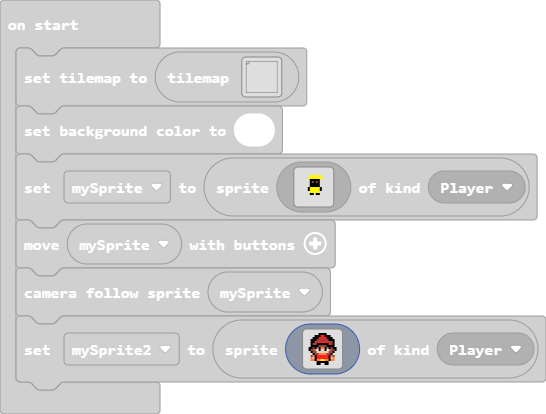
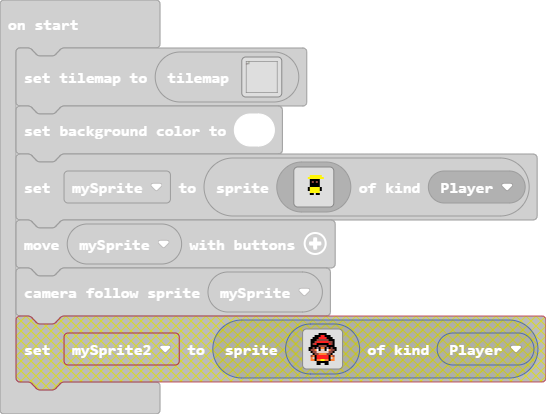
Update main.blocks, main.ts

Changed region(s): [[0.0, 0.7536, 1.0, 0.9565]]

diff --git a/main.ts b/main.ts
@@ -20,21 +20,3 @@ let mySprite = sprites.create(img`
     `, SpriteKind.Player)
 controller.moveSprite(mySprite)
 scene.cameraFollowSprite(mySprite)
-let mySprite2 = sprites.create(img`
-    . . . . . . f f f f . . . . . . 
-    . . . . f f f 2 2 f f f . . . . 
-    . . . f f f 2 2 2 2 f f f . . . 
-    . . f f f e e e e e e f f f . . 
-    . . f f e 2 2 2 2 2 2 e e f . . 
-    . . f e 2 f f f f f f 2 e f . . 
-    . . f f f f e e e e f f f f . . 
-    . f f e f b f 4 4 f b f e f f . 
-    . f e e 4 1 f d d f 1 4 e e f . 
-    . . f e e d d d d d d e e f . . 
-    . . . f e e 4 4 4 4 e e f . . . 
-    . . e 4 f 2 2 2 2 2 2 f 4 e . . 
-    . . 4 d f 2 2 2 2 2 2 f d 4 . . 
-    . . 4 4 f 4 4 5 5 4 4 f 4 4 . . 
-    . . . . . f f f f f f . . . . . 
-    . . . . . f f . . f f . . . . . 
-    `, SpriteKind.Player)
